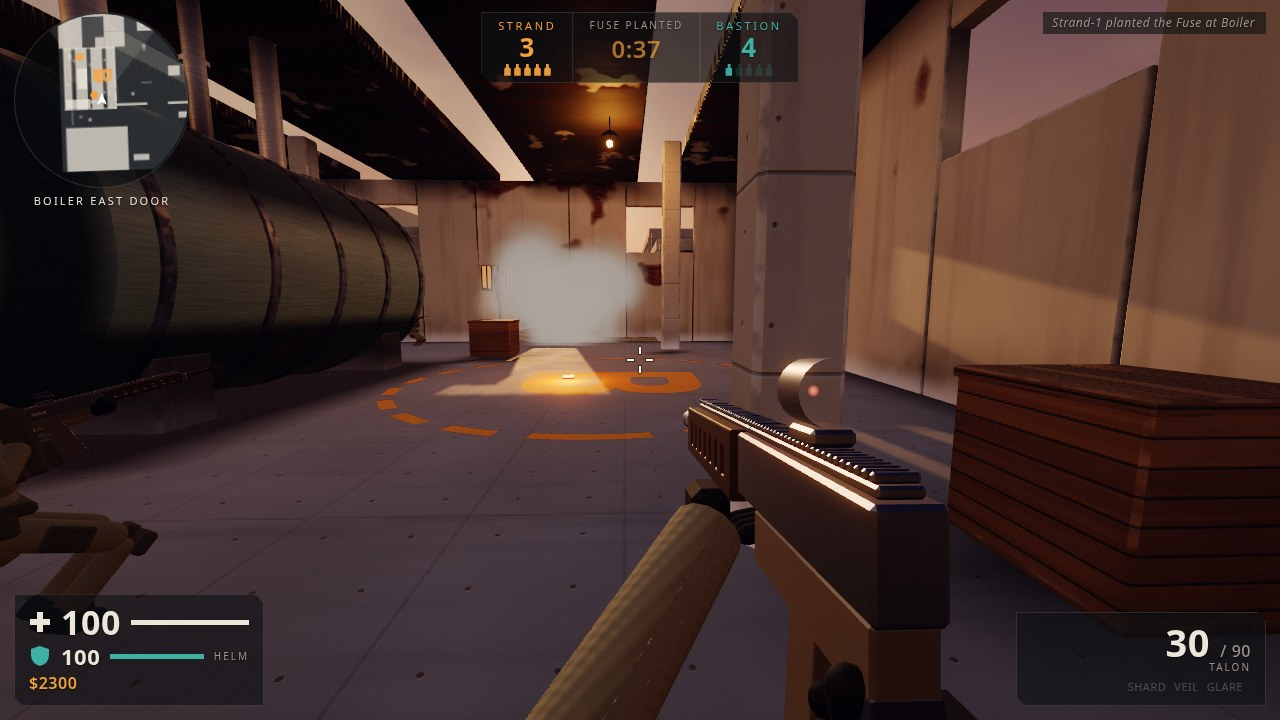
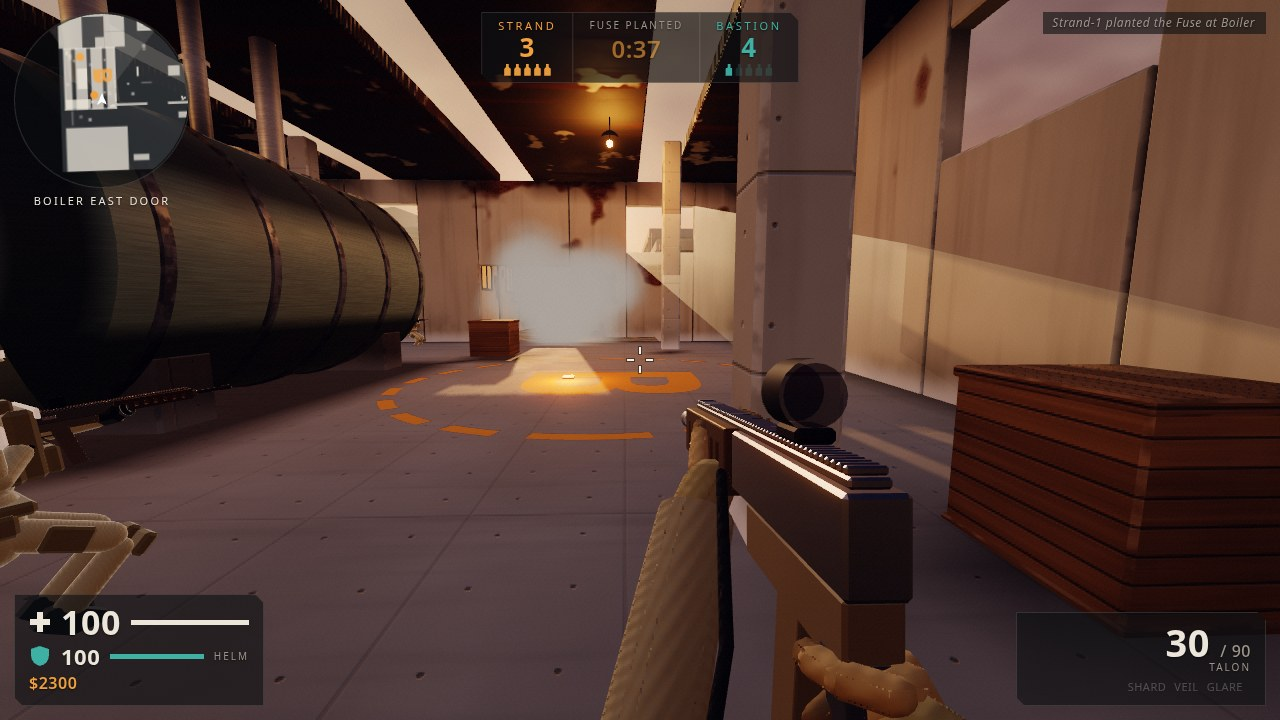
Visual polish: readable soldiers (rim, team accents, hit flash, spotted marker), black optics with tinted glass, C-grip fingers and sling, sun shafts, barrels and sandbag cover, damage vignette

diff --git a/game/index.html b/game/index.html
@@ -12,13 +12,13 @@ art (all procedural): post.js, lighting.js, materials.js, geo.js, weapons-art.js
 <meta charset="utf-8">
 <meta name="viewport" content="width=device-width, initial-scale=1">
 <title>SALTLINE — Brinehold</title>
-<style>:root{--ink:#ece6da;--mute:#9b948a;--amber:#f0a03c;--teal:#3fb0a4;--red:#ff5a4a;--bg:rgba(14,16,20,.62);--line:rgba(236,230,218,.14)}[hidden]{display:none!important}*{box-sizing:border-box}html,body{margin:0;height:100%;overflow:hidden;background:#000;color:var(--ink);font:13px/1.35 "Bahnschrift","DIN Alternate","Segoe UI",system-ui,sans-serif;letter-spacing:.04em}#game canvas{position:fixed;inset:0;display:block}#hud{position:fixed;inset:0;pointer-events:none;font-variant-numeric:tabular-nums;text-shadow:0 1px 2px rgba(0,0,0,.6)}.pn{position:absolute;background:var(--bg);border:1px solid var(--line);clip-path:polygon(0 0,calc(100% - 9px) 0,100% 9px,100% 100%,9px 100%,0 calc(100% - 9px))}.lbl{font-size:10px;letter-spacing:.2em;color:var(--mute)}#top{left:50%;top:12px;transform:translateX(-50%);display:flex;align-items:stretch;padding:0}#top>div{padding:6px 16px;text-align:center}#top .tm{min-width:120px;border-left:1px solid var(--line);border-right:1px solid var(--line)}#top .sc{font-size:26px;font-weight:700;line-height:1}#top .nm{font-size:11px;letter-spacing:.24em}#top .s{color:var(--amber)}#top .b{color:var(--teal)}#timer{font-size:24px;font-weight:600}#timer.hot{color:var(--amber);animation:pulse .5s infinite alternate}.pips{display:flex;gap:3px;justify-content:center;margin-top:4px}.pips i{width:7px;height:12px;background:currentColor;opacity:.95;clip-path:polygon(30% 0,70% 0,70% 30%,100% 40%,100% 100%,0 100%,0 40%,30% 30%)}.pips i.d{opacity:.18}#radar{left:14px;top:12px;width:176px;height:176px;border-radius:50%;border:1px solid var(--line);background:rgba(10,12,14,.55)}#loc{position:absolute;left:14px;top:194px;width:176px;text-align:center;font-size:11px;letter-spacing:.2em;color:var(--ink)}#feed{position:absolute;right:14px;top:12px;width:380px;display:flex;flex-direction:column;align-items:flex-end;gap:3px}#feed div{background:var(--bg);padding:3px 9px;font-size:12px;border-right:2px solid var(--line)}#feed .r{color:var(--mute);font-style:italic;border-color:transparent}#feed .k{border-color:var(--amber)}#feed em{font-style:normal;color:var(--mute);margin:0 6px}#feed b.hs{color:var(--amber);margin-left:5px}#vit{left:14px;bottom:14px;width:250px;padding:10px 14px}.row{display:flex;align-items:center;gap:10px}.big{font-size:34px;font-weight:700;line-height:1}.bar{flex:1;height:5px;background:rgba(255,255,255,.12)}.bar i{display:block;height:100%;width:100%;background:var(--ink);transition:width .15s}#hpbar.low i{background:var(--red)}#arm i{background:var(--teal)}#money{color:var(--amber);font-size:16px;font-weight:600;margin-top:6px}#wpn{right:14px;bottom:14px;width:250px;padding:10px 14px;text-align:right}#ammo{font-size:38px;font-weight:700;line-height:1}#ammo small{font-size:16px;color:var(--mute);font-weight:500}#ammo.low{color:var(--red)}#nades{display:flex;gap:8px;justify-content:flex-end;margin-top:6px;font-size:11px}#nades span{opacity:.25}#nades span.on{opacity:1}#nades span.sel{color:var(--amber)}#cross{position:absolute;left:50%;top:50%;--g:6px}#cross i{position:absolute;background:#f4f0e6;box-shadow:0 0 0 1px rgba(0,0,0,.45)}#cross i:nth-child(1){left:calc(-1px - var(--g) - 7px);top:-1px;width:7px;height:2px}#cross i:nth-child(2){left:calc(1px + var(--g));top:-1px;width:7px;height:2px}#cross i:nth-child(3){top:calc(-1px - var(--g) - 7px);left:-1px;height:7px;width:2px}#cross i:nth-child(4){top:calc(1px + var(--g));left:-1px;height:7px;width:2px}#hit{position:absolute;left:50%;top:50%;width:26px;height:26px;margin:-13px;opacity:0;transition:opacity .2s}#hit.on{opacity:1;transition:none}#hit i{position:absolute;left:12px;width:2px;height:8px;background:#fff}#hit.hs i{background:var(--red)}#hurt{position:absolute;left:50%;top:50%;width:300px;height:300px;margin:-150px;border-radius:50%;opacity:0;background:conic-gradient(from -20deg,rgba(255,60,40,.5) 0 40deg,transparent 40deg)}#banner{position:absolute;left:0;right:0;top:24%;text-align:center}#banner h1{margin:0;font-size:40px;letter-spacing:.32em;font-weight:700;color:var(--ink)}#banner h2{margin:6px 0 0;font-size:13px;letter-spacing:.3em;font-weight:500;color:var(--amber)}#banner:before{content:"";display:block;margin:0 auto 12px;width:220px;height:2px;background:linear-gradient(90deg,transparent,var(--amber),transparent)}#prog{left:50%;top:62%;width:280px;transform:translateX(-50%);padding:8px 12px;text-align:center}#prog .bar i{background:var(--amber)}#prompt{position:absolute;left:50%;top:57%;transform:translateX(-50%);font-size:12px;letter-spacing:.24em}#spec{position:absolute;left:50%;bottom:96px;transform:translateX(-50%);color:var(--teal);letter-spacing:.24em;font-size:12px}#scope{position:absolute;inset:0;background:radial-gradient(circle,transparent 0 31vh,#000 31.3vh)}#scope:before,#scope:after{content:"";position:absolute;background:rgba(0,0,0,.85)}#scope:before{left:50%;top:19vh;bottom:19vh;width:1px}#scope:after{top:50%;left:calc(50% - 31vh);right:calc(50% - 31vh);height:1px}#flash{position:absolute;inset:0;background:#fffaf0;opacity:0}#buy{left:50%;top:50%;transform:translate(-50%,-50%);width:860px;padding:18px 22px;pointer-events:auto}#buy header{display:flex;justify-content:space-between;align-items:baseline;border-bottom:1px solid var(--line);padding-bottom:8px;margin-bottom:12px}#buy h3{margin:0;font-size:18px;letter-spacing:.3em}#buy .cr{color:var(--amber);font-size:20px;font-weight:700}#buy .cols{display:grid;grid-template-columns:repeat(4,1fr);gap:12px}#buy .col>p{margin:0 0 6px}.it{display:grid;grid-template-columns:18px 1fr auto;gap:2px 8px;padding:7px 9px;margin-bottom:6px;background:rgba(255,255,255,.04);border-left:2px solid transparent;cursor:pointer}.it:hover{background:rgba(240,160,60,.12);border-color:var(--amber)}.it kbd{font:inherit;color:var(--amber)}.it b{font-weight:600}.it s{text-decoration:none;color:var(--amber)}.it small{grid-column:2/4;color:var(--mute);font-size:10px}.it.off{opacity:.35;cursor:default}.it.own{border-color:var(--teal)}.it.own s{color:var(--teal)}#board{left:50%;top:64%;transform:translate(-50%,-50%);width:640px;padding:16px 20px}#board table{width:100%;border-collapse:collapse}#board td,#board th{padding:4px 6px;text-align:right}#board td:first-child,#board th:first-child{text-align:left}#board th{color:var(--mute);font-size:10px;letter-spacing:.2em;font-weight:500}#board tr.t td{padding-top:10px;font-size:12px;letter-spacing:.24em}#board .dead{opacity:.4}#board .me{color:var(--amber)}.ov{position:fixed;inset:0;display:flex;flex-direction:column;align-items:center;justify-content:center;gap:16px;z-index:5;background:linear-gradient(180deg,rgba(10,10,14,.15),rgba(10,10,14,.75) 70%)}.logo{font-size:84px;font-weight:800;letter-spacing:.34em;margin-right:-.34em;line-height:1;background:linear-gradient(180deg,#fff7ea,#e6c49a);-webkit-background-clip:text;color:transparent;filter:drop-shadow(0 4px 18px rgba(0,0,0,.5))}.tag{letter-spacing:.42em;color:var(--amber);font-size:13px}.ov .row{gap:8px}.ov label{padding:8px 14px;border:1px solid var(--line);cursor:pointer;background:var(--bg);font-size:12px;letter-spacing:.2em}.ov label:has(input:checked){border-color:var(--amber);color:var(--amber)}.ov input[type=radio]{display:none}.ov button{font:inherit;font-size:15px;letter-spacing:.3em;font-weight:700;padding:14px 46px;border:0;cursor:pointer;color:#16120c;background:var(--amber);clip-path:polygon(0 0,calc(100% - 12px) 0,100% 12px,100% 100%,12px 100%,0 calc(100% - 12px))}.ov button.g{background:transparent;color:var(--ink);border:1px solid var(--line)}.keys{max-width:720px;text-align:center;color:var(--mute);font-size:11px;line-height:2;letter-spacing:.16em}.keys b{color:var(--ink);font-weight:600}.set{display:grid;grid-template-columns:auto 220px;gap:10px 18px;align-items:center;font-size:12px;letter-spacing:.2em}.set input,.set select{accent-color:var(--amber)}@keyframes pulse{to{opacity:.55}}</style>
+<style>:root{--ink:#ece6da;--mute:#9b948a;--amber:#f0a03c;--teal:#3fb0a4;--red:#ff5a4a;--bg:rgba(14,16,20,.62);--line:rgba(236,230,218,.14)}[hidden]{display:none!important}*{box-sizing:border-box}html,body{margin:0;height:100%;overflow:hidden;background:#000;color:var(--ink);font:13px/1.35 "Bahnschrift","DIN Alternate","Segoe UI",system-ui,sans-serif;letter-spacing:.04em}#game canvas{position:fixed;inset:0;display:block}#hud{position:fixed;inset:0;pointer-events:none;font-variant-numeric:tabular-nums;text-shadow:0 1px 2px rgba(0,0,0,.6)}.pn{position:absolute;background:var(--bg);border:1px solid var(--line);clip-path:polygon(0 0,calc(100% - 9px) 0,100% 9px,100% 100%,9px 100%,0 calc(100% - 9px))}.lbl{font-size:10px;letter-spacing:.2em;color:var(--mute)}#top{left:50%;top:12px;transform:translateX(-50%);display:flex;align-items:stretch;padding:0}#top>div{padding:6px 16px;text-align:center}#top .tm{min-width:120px;border-left:1px solid var(--line);border-right:1px solid var(--line)}#top .sc{font-size:26px;font-weight:700;line-height:1}#top .nm{font-size:11px;letter-spacing:.24em}#top .s{color:var(--amber)}#top .b{color:var(--teal)}#timer{font-size:24px;font-weight:600}#timer.hot{color:var(--amber);animation:pulse .5s infinite alternate}.pips{display:flex;gap:3px;justify-content:center;margin-top:4px}.pips i{width:7px;height:12px;background:currentColor;opacity:.95;clip-path:polygon(30% 0,70% 0,70% 30%,100% 40%,100% 100%,0 100%,0 40%,30% 30%)}.pips i.d{opacity:.18}#radar{left:14px;top:12px;width:176px;height:176px;border-radius:50%;border:1px solid var(--line);background:rgba(10,12,14,.55)}#loc{position:absolute;left:14px;top:194px;width:176px;text-align:center;font-size:11px;letter-spacing:.2em;color:var(--ink)}#feed{position:absolute;right:14px;top:12px;width:380px;display:flex;flex-direction:column;align-items:flex-end;gap:3px}#feed div{background:var(--bg);padding:3px 9px;font-size:12px;border-right:2px solid var(--line)}#feed .r{color:var(--mute);font-style:italic;border-color:transparent}#feed .k{border-color:var(--amber)}#feed em{font-style:normal;color:var(--mute);margin:0 6px}#feed b.hs{color:var(--amber);margin-left:5px}#vit{left:14px;bottom:14px;width:250px;padding:10px 14px}.row{display:flex;align-items:center;gap:10px}.big{font-size:34px;font-weight:700;line-height:1}.bar{flex:1;height:5px;background:rgba(255,255,255,.12)}.bar i{display:block;height:100%;width:100%;background:var(--ink);transition:width .15s}#hpbar.low i{background:var(--red)}#arm i{background:var(--teal)}#money{color:var(--amber);font-size:16px;font-weight:600;margin-top:6px}#wpn{right:14px;bottom:14px;width:250px;padding:10px 14px;text-align:right}#ammo{font-size:38px;font-weight:700;line-height:1}#ammo small{font-size:16px;color:var(--mute);font-weight:500}#ammo.low{color:var(--red)}#nades{display:flex;gap:8px;justify-content:flex-end;margin-top:6px;font-size:11px}#nades span{opacity:.25}#nades span.on{opacity:1}#nades span.sel{color:var(--amber)}#cross{position:absolute;left:50%;top:50%;--g:6px}#cross i{position:absolute;background:#f4f0e6;box-shadow:0 0 0 1px rgba(0,0,0,.45)}#cross i:nth-child(1){left:calc(-1px - var(--g) - 7px);top:-1px;width:7px;height:2px}#cross i:nth-child(2){left:calc(1px + var(--g));top:-1px;width:7px;height:2px}#cross i:nth-child(3){top:calc(-1px - var(--g) - 7px);left:-1px;height:7px;width:2px}#cross i:nth-child(4){top:calc(1px + var(--g));left:-1px;height:7px;width:2px}#hit{position:absolute;left:50%;top:50%;width:26px;height:26px;margin:-13px;opacity:0;transition:opacity .2s}#hit.on{opacity:1;transition:none}#hit i{position:absolute;left:12px;width:2px;height:8px;background:#fff}#hit.hs i{background:var(--red)}#hurt{position:absolute;left:50%;top:50%;width:300px;height:300px;margin:-150px;border-radius:50%;opacity:0;background:conic-gradient(from -20deg,rgba(255,60,40,.5) 0 40deg,transparent 40deg)}#banner{position:absolute;left:0;right:0;top:24%;text-align:center}#banner h1{margin:0;font-size:40px;letter-spacing:.32em;font-weight:700;color:var(--ink)}#banner h2{margin:6px 0 0;font-size:13px;letter-spacing:.3em;font-weight:500;color:var(--amber)}#banner:before{content:"";display:block;margin:0 auto 12px;width:220px;height:2px;background:linear-gradient(90deg,transparent,var(--amber),transparent)}#prog{left:50%;top:62%;width:280px;transform:translateX(-50%);padding:8px 12px;text-align:center}#prog .bar i{background:var(--amber)}#prompt{position:absolute;left:50%;top:57%;transform:translateX(-50%);font-size:12px;letter-spacing:.24em}#spec{position:absolute;left:50%;bottom:96px;transform:translateX(-50%);color:var(--teal);letter-spacing:.24em;font-size:12px}#scope{position:absolute;inset:0;background:radial-gradient(circle,#ff3b2f 0 .32vh,transparent .45vh 31vh,#000 31.3vh)}#scope:before,#scope:after{content:"";position:absolute;background:rgba(0,0,0,.85)}#scope:before{left:50%;top:19vh;bottom:19vh;width:1px}#scope:after{top:50%;left:calc(50% - 31vh);right:calc(50% - 31vh);height:1px}#vig{position:absolute;inset:0;opacity:0;background:radial-gradient(ellipse,transparent 55%,rgba(200,20,10,.65))}#vig.low{animation:pulse .6s infinite alternate}#flash{position:absolute;inset:0;background:#fffaf0;opacity:0}#buy{left:50%;top:50%;transform:translate(-50%,-50%);width:860px;padding:18px 22px;pointer-events:auto}#buy header{display:flex;justify-content:space-between;align-items:baseline;border-bottom:1px solid var(--line);padding-bottom:8px;margin-bottom:12px}#buy h3{margin:0;font-size:18px;letter-spacing:.3em}#buy .cr{color:var(--amber);font-size:20px;font-weight:700}#buy .cols{display:grid;grid-template-columns:repeat(4,1fr);gap:12px}#buy .col>p{margin:0 0 6px}.it{display:grid;grid-template-columns:18px 1fr auto;gap:2px 8px;padding:7px 9px;margin-bottom:6px;background:rgba(255,255,255,.04);border-left:2px solid transparent;cursor:pointer}.it:hover{background:rgba(240,160,60,.12);border-color:var(--amber)}.it kbd{font:inherit;color:var(--amber)}.it b{font-weight:600}.it s{text-decoration:none;color:var(--amber)}.it small{grid-column:2/4;color:var(--mute);font-size:10px}.it.off{opacity:.35;cursor:default}.it.own{border-color:var(--teal)}.it.own s{color:var(--teal)}#board{left:50%;top:64%;transform:translate(-50%,-50%);width:640px;padding:16px 20px}#board table{width:100%;border-collapse:collapse}#board td,#board th{padding:4px 6px;text-align:right}#board td:first-child,#board th:first-child{text-align:left}#board th{color:var(--mute);font-size:10px;letter-spacing:.2em;font-weight:500}#board tr.t td{padding-top:10px;font-size:12px;letter-spacing:.24em}#board .dead{opacity:.4}#board .me{color:var(--amber)}.ov{position:fixed;inset:0;display:flex;flex-direction:column;align-items:center;justify-content:center;gap:16px;z-index:5;background:linear-gradient(180deg,rgba(10,10,14,.15),rgba(10,10,14,.75) 70%)}.logo{font-size:84px;font-weight:800;letter-spacing:.34em;margin-right:-.34em;line-height:1;background:linear-gradient(180deg,#fff7ea,#e6c49a);-webkit-background-clip:text;color:transparent;filter:drop-shadow(0 4px 18px rgba(0,0,0,.5))}.tag{letter-spacing:.42em;color:var(--amber);font-size:13px}.ov .row{gap:8px}.ov label{padding:8px 14px;border:1px solid var(--line);cursor:pointer;background:var(--bg);font-size:12px;letter-spacing:.2em}.ov label:has(input:checked){border-color:var(--amber);color:var(--amber)}.ov input[type=radio]{display:none}.ov button{font:inherit;font-size:15px;letter-spacing:.3em;font-weight:700;padding:14px 46px;border:0;cursor:pointer;color:#16120c;background:var(--amber);clip-path:polygon(0 0,calc(100% - 12px) 0,100% 12px,100% 100%,12px 100%,0 calc(100% - 12px))}.ov button.g{background:transparent;color:var(--ink);border:1px solid var(--line)}.keys{max-width:720px;text-align:center;color:var(--mute);font-size:11px;line-height:2;letter-spacing:.16em}.keys b{color:var(--ink);font-weight:600}.set{display:grid;grid-template-columns:auto 220px;gap:10px 18px;align-items:center;font-size:12px;letter-spacing:.2em}.set input,.set select{accent-color:var(--amber)}@keyframes pulse{to{opacity:.55}}</style>
 <script type="importmap">{ "imports": { "three": "./three.module.min.js" } }</script>
 </head>
 <body>
 <div id="game"></div>
 <div id="hud">
-<div id="flash"></div><div id="scope" hidden></div><div id="hurt"></div>
+<div id="vig"></div><div id="flash"></div><div id="scope" hidden></div><div id="hurt"></div>
 <canvas id="radar" width="176" height="176" style="position:absolute"></canvas><div id="loc"></div>
 <div class="pn" id="top">
 <div><div class="nm s">STRAND</div><div class="sc s" id="scS">0</div><div class="pips s" id="pipS"></div></div>

diff --git a/game/js/art/characters.js b/game/js/art/characters.js
@@ -2,9 +2,10 @@
 // (one draw) per soldier. Team identity by silhouette and colour; walk/crouch/aim/death are procedural and both
 // hands reach the held weapon through analytic two-bone IK.
 import { Bone, Skeleton, SkinnedMesh, Group, Mesh, MeshStandardMaterial, Float32BufferAttribute, Uint16BufferAttribute, CapsuleGeometry,
-	SphereGeometry, CylinderGeometry, Matrix4, Vector3, Quaternion, Euler, Color } from 'three';
+	SphereGeometry, CylinderGeometry, TorusGeometry, Matrix4, Vector3, Quaternion, Euler, Color, Sprite, SpriteMaterial, CanvasTexture } from 'three';
 import { Bld, boxInto } from './mesh.js';
-import { buildWeapon, weaponMaterial } from './weapons-art.js';
+import { buildWeapon } from './weapons-art.js';
+import { procMaterial } from './materials.js';
 import { TEAM_LOOK } from '../config.js';
 
 // Bone table: [parent, x, y, z] in bind pose (relative to parent). Arms hang down; forward is -z.
@@ -18,7 +19,7 @@ const _S = new Vector3(), _T = new Vector3(), _E = new Vector3(), _D = new Vecto
 
 function buildBody(team) {
 	const L = TEAM_LOOK[team], B = new Bld(), skin = [];
-	const cloth = lin(L.cloth), gear = lin(L.gear), acc = lin(L.accent), helm = lin(L.helmet), dark = lin(0x1c1c1e), face = lin(0x2b2825);
+	const cloth = lin(L.cloth), gear = lin(L.gear), acc = lin(L.accent), helm = lin(L.helmet), dark = lin(0x1c1c1e), face = lin(0x2b2825), glove = lin(0x2a241c);
 	const part = (bone, fn) => { const n0 = B.p.length / 3; fn(); for (let k = n0; k < B.p.length / 3; k++) skin.push(bone); };
 	const bx = (mn, mx, col, e = 1, r = 0.02) => boxInto(B, mn, mx, r, col, 0.4, e, e);
 	const geo = (g, x, y, z, col, e = 0, sx = 1, sy = 1, sz = 1, rx = 0) => B.add(g, _m.compose(_v.set(x, y, z), _q.setFromEuler(_e.set(rx, 0, 0)), _s.set(sx, sy, sz)), e, col);
@@ -31,23 +32,25 @@ function buildBody(team) {
 		geo(new CapsuleGeometry(0.16, 0.22, 4, 16), 0, 1.3, 0, cloth, 0, 1.15, 1, 0.72);
 		bx([-0.16, 1.12, -0.17], [0.16, 1.45, -0.08], gear); bx([-0.16, 1.12, 0.07], [0.16, 1.45, 0.15], gear);
 		bx([-0.19, 1.12, -0.1], [0.19, 1.27, 0.09], gear);
+		bx([-0.165, 1.4, -0.18], [0.165, 1.45, -0.165], acc, 3, 0.008); bx([-0.165, 1.4, 0.15], [0.165, 1.45, 0.16], acc, 3, 0.008);
 		for (const x of [-0.11, 0, 0.11]) bx([x - 0.04, 1.13, -0.215], [x + 0.04, 1.26, -0.165], gear, 1, 0.012);
 		for (const x of [-0.1, 0.1]) bx([x - 0.035, 1.44, -0.12], [x + 0.035, 1.5, 0.12], gear, 1, 0.01);
-		if (team === 'strand') bx([-0.15, 1.1, 0.15], [0.15, 1.44, 0.3], gear); else bx([-0.13, 1.3, 0.15], [0.13, 1.42, 0.2], dark);
+		if (team === 'strand') { bx([-0.15, 1.1, 0.15], [0.15, 1.44, 0.3], gear); bx([-0.15, 1.3, 0.3], [0.15, 1.36, 0.31], acc, 3, 0.005); } else bx([-0.13, 1.3, 0.15], [0.13, 1.42, 0.2], dark);
 		geo(new CylinderGeometry(0.06, 0.07, 0.1, 12), 0, 1.53, 0, face);
 	});
 	part(HEAD, () => {
 		geo(new SphereGeometry(0.105, 18, 14), 0, 1.66, -0.01, face, 0, 0.95, 1.08, 1.05);
 		geo(new SphereGeometry(0.135, 22, 10, 0, 6.3, 0, team === 'strand' ? 1.45 : 1.75), 0, 1.65, 0.0, helm, 1, 1, 1.05, 1.12);
-		geo(new CylinderGeometry(0.03, 0.03, 0.035, 12), -0.12, 1.65, 0.01, dark, 1, 1, 1, 1, 0);
+		geo(new CylinderGeometry(0.139, 0.139, 0.035, 22, 1, true), 0, 1.7, 0, acc, 3, 1, 1, 1.12);
+		geo(new CylinderGeometry(0.03, 0.03, 0.035, 12), -0.12, 1.65, 0.01, dark, 1);
 		geo(new CylinderGeometry(0.03, 0.03, 0.035, 12), 0.12, 1.65, 0.01, dark, 1);
 		bx([-0.025, 1.76, -0.15], [0.025, 1.8, -0.11], dark, 2, 0.008);
 		if (team === 'strand') { bx([-0.085, 1.66, -0.125], [0.085, 1.7, -0.09], dark, 2, 0.012); bx([-0.125, 1.67, -0.1], [0.125, 1.69, 0.1], acc, 1, 0.005); }
 		else geo(new CylinderGeometry(0.128, 0.128, 0.075, 20, 1, true, Math.PI * 0.62, Math.PI * 0.76), 0, 1.655, -0.005, dark, 2);
 	});
 	for (const [ua, fa, s] of [[LUA, LFA, -1], [RUA, RFA, 1]]) {
-		part(ua, () => { geo(new CapsuleGeometry(0.052, 0.19, 4, 12), s * 0.2, 1.31, 0, cloth); bx([s * 0.2 - 0.056, 1.33, -0.035], [s * 0.2 + 0.056, 1.39, 0.035], acc, 1, 0.01); });
-		part(fa, () => { geo(new CapsuleGeometry(0.046, 0.17, 4, 12), s * 0.2, 1.03, 0, cloth); bx([s * 0.2 - 0.04, 0.84, -0.045], [s * 0.2 + 0.04, 0.94, 0.04], lin(0x3b3428), 1, 0.02); });
+		part(ua, () => { geo(new CapsuleGeometry(0.052, 0.19, 4, 12), s * 0.2, 1.31, 0, cloth); bx([s * 0.2 - 0.062, 1.3, -0.062], [s * 0.2 + 0.062, 1.4, 0.062], acc, 3, 0.012); });
+		part(fa, () => { geo(new CapsuleGeometry(0.046, 0.17, 4, 12), s * 0.2, 1.03, 0, cloth); bx([s * 0.2 - 0.04, 0.84, -0.045], [s * 0.2 + 0.04, 0.94, 0.04], glove, 1, 0.02); geo(new TorusGeometry(0.03, 0.012, 6, 10, 3.6), s * 0.2, 0.82, -0.02, glove, 1, 1, 1, 1, Math.PI / 2); });
 	}
 	for (const [th, sh, s] of [[LTH, LSH, -1], [RTH, RSH, 1]]) {
 		part(th, () => { geo(new CapsuleGeometry(0.075, 0.28, 4, 14), s * 0.1, 0.69, 0, cloth); if (s > 0) bx([0.14, 0.62, -0.06], [0.19, 0.78, 0.06], gear); });
@@ -77,18 +80,22 @@ function reach(ua, fa, S, T, side) {
 export function createCharacters(scene) {
 	const geos = { strand: buildBody('strand'), bastion: buildBody('bastion') };
 	const fuseMat = new MeshStandardMaterial({ color: 0x000000, emissive: 0xf0a03c, emissiveIntensity: 6 });
+	const mc = document.createElement('canvas'); mc.width = mc.height = 32; const x = mc.getContext('2d');
+	x.fillStyle = '#ff5a4a'; x.strokeStyle = '#1a0a08'; x.lineWidth = 3; x.beginPath(); x.moveTo(16, 3); x.lineTo(28, 16); x.lineTo(16, 29); x.lineTo(4, 16); x.closePath(); x.fill(); x.stroke();
+	const markMat = new SpriteMaterial({ map: new CanvasTexture(mc), depthTest: false, transparent: true, sizeAttenuation: false });
 	const rigs = new Map(), weapons = {};
 	function rigFor(a) {
 		const bones = BONES.map(([, x, y, z]) => { const b = new Bone(); b.position.set(x, y, z); return b; });
 		BONES.forEach(([p], k) => { if (p >= 0) bones[p].add(bones[k]); });
-		const mesh = new SkinnedMesh(geos[a.team], weaponMaterial);
+		const mat = procMaterial({ c: 0xffffff, pat: 12, bump: 0.004, dirt: 0.35, rime: 0.45 }), mesh = new SkinnedMesh(geos[a.team], mat);
 		mesh.add(bones[ROOT]); mesh.updateMatrixWorld(true); mesh.bind(new Skeleton(bones));
 		mesh.castShadow = true; mesh.receiveShadow = true; mesh.frustumCulled = false;
 		const fuse = new Mesh(new CylinderGeometry(0.05, 0.05, 0.22, 10), fuseMat);
 		fuse.position.set(0, 0.0, 0.31); fuse.rotation.z = Math.PI / 2; bones[CHEST].add(fuse);
-		const hold = new Group(); bones[CHEST].add(hold);
+		const hold = new Group(), mark = new Sprite(markMat); bones[CHEST].add(hold);
+		mark.scale.setScalar(0.022); mesh.add(mark);
 		scene.add(mesh);
-		const r = { mesh, bones, fuse, hold, team: a.team, wid: '', gun: null, fall: 0, flinch: 0, side: a.id % 2 ? 1 : -1 };
+		const r = { mesh, mat, mark, bones, fuse, hold, team: a.team, wid: '', gun: null, fall: 0, flinch: 0, side: a.id % 2 ? 1 : -1 };
 		rigs.set(a.id, r);
 		return r;
 	}
@@ -113,7 +120,9 @@ export function createCharacters(scene) {
 				r.mesh.position.copy(a.pos); r.mesh.rotation.y = a.yaw;
 				r.fuse.visible = a.hasFuse;
 				r.fall = a.alive ? 0 : Math.min(1, r.fall + dt * 2.6);
-				r.flinch = Math.max(0, r.flinch - dt * 6);
+				r.flinch = Math.max(0, r.flinch - dt * 10); r.mat.userData.u.uL.value.w = state.scenarioDone ? 0 : r.flinch;
+		// Diamond over enemies the team has spotted (the same rule as the radar), so they read at range.
+		r.mark.visible = a.alive && a.team !== state.player.team && state.time - state.spottedT[a.id] < 2.5; r.mark.position.y = 2.05 - a.crouch * 0.4;
 				const f = r.fall * r.fall, sp = a.speed, amp = Math.min(1, sp / 5.5) * 0.62, ph = a.walkPhase, c = a.crouch * (1 - r.fall);
 				b[PELVIS].position.y = 0.95 - c * 0.3 - f * 0.72 + Math.abs(Math.sin(ph)) * amp * 0.035;
 				b[ROOT].rotation.set(-f * 1.45, 0, f * 0.25 * r.side);

diff --git a/game/js/art/viewmodel.js b/game/js/art/viewmodel.js
@@ -1,34 +1,55 @@
 // SALTLINE art/viewmodel.js — first-person weapon, gloved hands and sleeves (ART.md §9). Springs drive sway, bob,
 // kick, slide cycling, reload and draw; a key light follows the real sun and dims when the eye is in shade.
 import { Group, Mesh, ShaderMaterial, PlaneGeometry, AdditiveBlending, DoubleSide, DirectionalLight, HemisphereLight, Vector3, CapsuleGeometry,
-	CylinderGeometry, Matrix4, Quaternion, Color, Euler } from 'three';
+	CylinderGeometry, Matrix4, Quaternion, Color } from 'three';
 import { buildWeapon, weaponMaterial } from './weapons-art.js';
-import { Bld, boxInto } from './mesh.js';
+import { Bld } from './mesh.js';
 import { damp, losBlocked } from '../math.js';
 import { TEAM_LOOK, WEAPONS } from '../config.js';
 
-const HOLD = { pistol: [0.075, -0.105, -0.43], knife: [0.12, -0.13, -0.3], rifle: [0.11, -0.125, -0.33] }, ADS = [0, -0.074, -0.22];
+const HOLD = { pistol: [0.075, -0.105, -0.43], knife: [0.12, -0.13, -0.3], rifle: [0.11, -0.128, -0.37] }, ADS = [0, -0.074, -0.22];
 const lin = (h) => { const c = new Color(h); return [c.r, c.g, c.b]; };
-const _m = new Matrix4(), _q = new Quaternion(), _e = new Euler(), _v = new Vector3(), _c = new Vector3(), _a = new Vector3(), _b = new Vector3(), _s = new Vector3(1, 1, 1), _up = new Vector3(0, 1, 0);
+const _m = new Matrix4(), _q = new Quaternion(), _v = new Vector3(), _c = new Vector3(), _a = new Vector3(), _b = new Vector3(), _s = new Vector3(1, 1, 1), _up = new Vector3(0, 1, 0);
 function limb(B, a, b, r0, r1, col, e) {
 	_v.subVectors(b, a); const len = _v.length();
 	_q.setFromUnitVectors(_up, _v.normalize());
 	B.add(new CylinderGeometry(r1, r0, len, 14, 3), _m.compose(_c.addVectors(a, b).multiplyScalar(0.5), _q, _s.set(1, 1, 1)), e, col);
 }
-const capsule = (B, x, y, z, rx, ry, rz, r, l, col) => B.add(new CapsuleGeometry(r, l, 3, 10), _m.compose(_v.set(x, y, z), _q.setFromEuler(_e.set(rx, ry, rz)), _s.set(1, 1, 1)), 1, col);
-// Right hand wraps the grip; the left hand cups the handguard (long guns) or the right hand (pistols).
-function buildArms(team, left, pistol) {
-	const R = new Bld(), L = new Bld(), glove = lin(0x3b3428), knuckle = lin(0x2a251e), sleeve = lin(TEAM_LOOK[team].cloth), cuff = lin(TEAM_LOOK[team].gear);
-	boxInto(R, [0.012, -0.1, -0.005], [0.04, -0.03, 0.06], 0.012, glove, 0.05, 1, 1);
-	for (let k = 0; k < 4; k++) capsule(R, -0.004, -0.04 - k * 0.019, -0.012, 0, 0, Math.PI / 2, 0.0095, 0.03, k ? glove : knuckle);
-	capsule(R, -0.016, -0.032, 0.012, 0.6, 0, 0.3, 0.01, 0.035, glove);
-	limb(R, _a.set(0.03, -0.075, 0.07), _b.set(0.1, -0.2, 0.42), 0.034, 0.04, sleeve, 0);
-	limb(R, _a.set(0.028, -0.072, 0.055), _b.set(0.034, -0.08, 0.1), 0.036, 0.037, cuff, 0);
-	if (left) {
-		const [x, y, z] = pistol ? [-0.03, -0.075, 0.015] : left;
-		boxInto(L, [x - 0.048, y - 0.055, z - 0.035], [x - 0.012, y + 0.01, z + 0.035], 0.012, glove, 0.05, 1, 1);
-		for (let k = 0; k < 4; k++) capsule(L, x + 0.012, y - 0.03, z - 0.028 + k * 0.019, Math.PI / 2, 0, 0.9, 0.0095, 0.028, glove);
-		limb(L, _a.set(x - 0.035, y - 0.03, z + 0.03), _b.set(x - 0.26, y - 0.24, z + 0.36), 0.034, 0.044, sleeve, 0);
+// Capsule bone between two points; a finger is three of them following an elliptical arc around the part it grips.
+function seg(B, a, b, r, col) {
+	_v.subVectors(b, a); const len = _v.length(); _q.setFromUnitVectors(_up, _v.normalize());
+	B.add(new CapsuleGeometry(r, len, 2, 8), _m.compose(_c.addVectors(a, b).multiplyScalar(0.5), _q, _s.set(1, 1, 1)), 0, col);
+}
+const P = (x, y, z) => new Vector3(x, y, z);
+function finger(B, pts, r, col, tip) { for (let k = 0; k < 3; k++) seg(B, pts[k], pts[k + 1], r * (1 - k * 0.08), k === 2 ? tip : col); }
+// C-shaped fingers: around the pistol grip in the horizontal plane (x/z), around the handguard in the cross-section (x/y).
+const gripArc = (y, deg) => { const t = (-0.02 - y) / 0.1, zc = 0.0175 + 0.0235 * t; return deg.map((d) => P(0.024 * Math.cos(d / 57.3), y, zc + 0.028 * Math.sin(d / 57.3))); };
+const hgArc = (z, [cy, rx, ry], deg) => deg.map((d) => P((rx + 0.009) * Math.cos(d / 57.3), cy + (ry + 0.009) * Math.sin(d / 57.3), z));
+// Right hand: palm behind the grip, three fingers wrapped round it, index finger on the trigger, thumb over the left side.
+// Left hand: palm under the handguard, four fingers up its right side, thumb along the left (long guns), or cupping
+// the right hand (pistols). Gloves are light coyote against the dark gun; sleeves are muted team cloth.
+function buildArms(team, w, knife) {
+	const R = new Bld(), L = new Bld(), glove = lin(0xa48a62), tip = lin(0x7c6646), sleeve = lin(new Color(TEAM_LOOK[team].cloth).lerp(new Color(0x3c3d3e), 0.5).getHex()), cuff = lin(TEAM_LOOK[team].gear), strap = lin(0x2c2b27);
+	seg(R, P(0.012, -0.036, 0.034), P(0.014, -0.094, 0.05), 0.02, glove);
+	for (const y of [-0.052, -0.072, -0.092]) finger(R, gripArc(y, [25, -40, -105, -165]), 0.0092, glove, tip);
+	finger(R, [P(0.024, -0.03, 0.012), P(0.019, -0.033, -0.006), P(0.009, -0.036, -0.016), P(0.002, -0.04, -0.017)], 0.0088, glove, tip);
+	finger(R, [P(0.004, -0.026, 0.05), P(-0.014, -0.026, 0.032), P(-0.022, -0.026, 0.012), P(-0.022, -0.028, -0.004)], 0.0098, glove, tip);
+	seg(R, P(0.016, -0.05, 0.05), P(0.026, -0.072, 0.095), 0.025, cuff);
+	limb(R, _a.set(0.026, -0.07, 0.085), _b.set(0.1, -0.2, 0.42), 0.034, 0.04, sleeve, 0);
+	if (!knife && w.left) {
+		const z = w.left[2], hg = w.hg, [cy, rx, ry] = hg;
+		seg(L, P(-rx * 0.75 - 0.01, cy - ry * 0.75 - 0.01, z + 0.045), P(-rx * 0.5 - 0.004, cy - ry - 0.006, z - 0.035), 0.02, glove);
+		for (let k = 0; k < 4; k++) finger(L, hgArc(z - 0.036 + k * 0.021, hg, [-125, -60, 0, 55]), 0.0092, glove, tip);
+		finger(L, [P(-rx - 0.016, cy - ry * 0.5, z + 0.03), P(-rx - 0.012, cy, z + 0.005), P(-rx - 0.008, cy + ry * 0.45, z - 0.02), P(-rx - 0.004, cy + ry * 0.7, z - 0.04)], 0.0098, glove, tip);
+		const wx = -rx - 0.012, wy = cy - ry - 0.004, wz = z + 0.055;
+		seg(L, P(wx + 0.004, wy + 0.004, wz - 0.01), P(wx - 0.018, wy - 0.026, wz + 0.03), 0.026, cuff);
+		limb(L, _a.set(wx - 0.012, wy - 0.018, wz + 0.02), _b.set(wx - 0.09, wy - 0.25, wz + 0.2), 0.035, 0.043, sleeve, 0);
+		seg(L, P(-0.026, cy - 0.01, z + 0.09), P(-0.05, -0.06, z + 0.26), 0.005, strap); seg(L, P(-0.05, -0.06, z + 0.26), P(-0.13, -0.2, z + 0.5), 0.005, strap);
+	} else if (!knife) {
+		const [x, y, z] = [-0.03, -0.075, 0.015];
+		seg(L, P(x - 0.03, y - 0.02, z + 0.01), P(x - 0.026, y - 0.06, z + 0.02), 0.02, glove);
+		for (let k = 0; k < 4; k++) finger(L, [P(x - 0.034, y - 0.008 - k * 0.019, z + 0.03), P(x - 0.02, y - 0.01 - k * 0.019, z - 0.005), P(x + 0.012, y - 0.012 - k * 0.019, z - 0.012), P(x + 0.04, y - 0.014 - k * 0.019, z - 0.002)], 0.0092, glove, tip);
+		limb(L, _a.set(x - 0.035, y - 0.03, z + 0.03), _b.set(x - 0.2, y - 0.24, z + 0.36), 0.034, 0.044, sleeve, 0);
 	}
 	const mk = (B) => { if (!B.p.length) return null; const m = new Mesh(B.geo(), weaponMaterial); m.renderOrder = 1; return m; };
 	return { right: mk(R), left: mk(L) };
@@ -61,7 +82,7 @@ export function createViewmodel(vmScene, sunDir) {
 		if (curKey === k) return;
 		if (cur) gun.remove(cur.group);
 		if (!cache[k]) {
-			const w = buildWeapon(id), arms = buildArms(team, id === 'cutlass' ? null : w.left || [0, 0, 0], !w.left);
+			const w = buildWeapon(id), arms = buildArms(team, w, id === 'cutlass');
 			for (const m of [arms.right, arms.left]) if (m) w.group.add(m);
 			w.leftArm = arms.left; w.mag0 = w.mag ? w.mag.position.y : 0;
 			cache[k] = w;

diff --git a/game/js/art/weapons-art.js b/game/js/art/weapons-art.js
@@ -3,12 +3,12 @@
 // Vertex colour = finish, aE = 1 polymer / 2 metal for the shared material (pattern 12). The slide and the
 // magazine are separate meshes so the viewmodel can animate them.
 import { Shape, Path, ExtrudeGeometry, LatheGeometry, Vector2, Matrix4, Mesh, Group, Object3D, Color, MeshBasicMaterial, AdditiveBlending,
-	PlaneGeometry, CanvasTexture } from 'three';
+	PlaneGeometry, CircleGeometry, CanvasTexture, MeshStandardMaterial, DoubleSide } from 'three';
 import { Bld, boxInto } from './mesh.js';
 import { procMaterial } from './materials.js';
 
 const lin = (hex) => { const c = new Color(hex); return [c.r, c.g, c.b]; };
-const FIN = { M: lin(0x8a8e93), P: lin(0x45464a), S: lin(0xc4c7ca), W: lin(0x8a6040), B: lin(0xc9a050), R: lin(0x5a5d61) };
+const FIN = { K: lin(0x1b1c1f), M: lin(0x8a8e93), P: lin(0x45464a), S: lin(0xc4c7ca), W: lin(0x8a6040), B: lin(0xc9a050), R: lin(0x5a5d61) };
 export const weaponMaterial = procMaterial({ c: 0xffffff, pat: 12, bump: 0.004, env: 1.2, metal: 1 });
 const _m = new Matrix4();
 
@@ -30,19 +30,19 @@ const slots = (u0, u1, v0, v1, n) => { const out = [], w = (u1 - u0) / n; for (l
 
 function optic(B, kind, z, y) {
 	if (kind === 'scope') {
-		lat(B, FIN.M, 0, y + 0.045, z + 0.14, [0, 0, 0.024, 0, 0.024, 0.07, 0.015, 0.1, 0.015, 0.2, 0.021, 0.24, 0.021, 0.3, 0.019, 0.31, 0, 0.31], 2, 24);
-		for (const zz of [z + 0.07, z - 0.08]) box(B, FIN.M, -0.012, y, zz, 0.012, y + 0.03, zz - 0.02);
-		lat(B, FIN.M, 0.02, y + 0.045, z - 0.01, [0, 0, 0.009, 0, 0.009, 0.02, 0, 0.02], 2, 12);
+		lat(B, FIN.K, 0, y + 0.045, z + 0.14, [0, 0, 0.028, 0, 0.028, 0.07, 0.019, 0.1, 0.019, 0.2, 0.025, 0.24, 0.025, 0.3, 0.023, 0.31, 0, 0.31], 1, 24);
+		for (const zz of [z + 0.07, z - 0.08]) box(B, FIN.K, -0.012, y, zz, 0.012, y + 0.03, zz - 0.02, 1);
+		lat(B, FIN.K, 0.024, y + 0.045, z - 0.01, [0, 0, 0.009, 0, 0.009, 0.02, 0, 0.02], 1, 12);
 		return y + 0.045;
 	}
 	if (kind === 'holo') {
-		box(B, FIN.P, -0.017, y, z, 0.017, y + 0.012, z - 0.09, 1);
-		box(B, FIN.M, -0.019, y + 0.012, z, -0.015, y + 0.055, z - 0.09); box(B, FIN.M, 0.015, y + 0.012, z, 0.019, y + 0.055, z - 0.09);
-		box(B, FIN.M, -0.019, y + 0.051, z, 0.019, y + 0.056, z - 0.09);
+		box(B, FIN.K, -0.017, y, z, 0.017, y + 0.012, z - 0.09, 1);
+		box(B, FIN.K, -0.019, y + 0.012, z, -0.015, y + 0.055, z - 0.09, 1); box(B, FIN.K, 0.015, y + 0.012, z, 0.019, y + 0.055, z - 0.09, 1);
+		box(B, FIN.K, -0.019, y + 0.051, z, 0.019, y + 0.056, z - 0.09, 1);
 		return y + 0.033;
 	}
-	box(B, FIN.M, -0.013, y, z, 0.013, y + 0.01, z - 0.05);
-	lat(B, FIN.M, 0, y + 0.03, z, [0.02, 0, 0.02, 0.05, 0.017, 0.052], 2, 20);
+	box(B, FIN.K, -0.013, y, z, 0.013, y + 0.01, z - 0.05, 1);
+	lat(B, FIN.K, 0, y + 0.03, z, [0.023, 0, 0.023, 0.05, 0.02, 0.052], 1, 20);
 	return y + 0.03;
 }
 
@@ -97,7 +97,7 @@ function longGun(o) {
 	const sight = o.optic ? optic(B, o.optic, o.opticZ ?? -0.06, 0.075) : 0.075;
 	if (!o.optic) { box(B, FIN.M, -0.008, 0.07, z0 - 0.01, 0.008, 0.086, z0 - 0.025); box(B, FIN.M, -0.002, 0.07, -h1 + 0.03, 0.002, 0.09, -h1 + 0.035); }
 	if (o.bolt) { box(K, FIN.S, 0.017, 0.035, -0.02, 0.05, 0.042, -0.028); lat(K, FIN.S, 0.055, 0.038, -0.018, [0.008, 0, 0.008, 0.012, 0, 0.012], 2, 10); }
-	return { B, K, A, muz: [0, by, bz - o.barrel - 0.05], left: [0, -0.005, -(h0 + 0.09)], sight, optic: o.optic };
+	return { B, K, A, muz: [0, by, bz - o.barrel - 0.05], left: [0, -0.005, -(h0 + 0.09)], hg: o.pump ? [-0.01, 0.026, 0.026] : [(hy0 + 0.064) / 2, 0.023, (0.066 - hy0) / 2], sight, optic: o.optic, oz: o.opticZ ?? -0.06 };
 }
 
 function knife() {
@@ -124,8 +124,9 @@ const reticle = (() => {
 	const x = c.getContext('2d'), g = x.createRadialGradient(32, 32, 0, 32, 32, 8);
 	g.addColorStop(0, 'rgba(255,90,60,1)'); g.addColorStop(0.4, 'rgba(255,60,40,0.9)'); g.addColorStop(1, 'rgba(255,40,20,0)');
 	x.fillStyle = g; x.fillRect(0, 0, 64, 64);
-	return new MeshBasicMaterial({ map: new CanvasTexture(c), transparent: true, blending: AdditiveBlending, depthWrite: false, color: 0xffffff });
+	return new MeshBasicMaterial({ map: new CanvasTexture(c), transparent: true, blending: AdditiveBlending, depthWrite: false, color: new Color(4, 1.4, 1.2) });
 })();
+const lens = new MeshStandardMaterial({ color: 0x241f3c, metalness: 0.5, roughness: 0.05, transparent: true, opacity: 0.6, envMapIntensity: 2.5, side: DoubleSide });
 
 // lod = true: one merged mesh (third person). Otherwise slide and magazine stay separate and optics get a reticle.
 export function buildWeapon(id, lod = false) {
@@ -134,9 +135,11 @@ export function buildWeapon(id, lod = false) {
 	const mk = (P) => { if (!P || !P.p.length) return null; const m = new Mesh(P.geo(), weaponMaterial); m.castShadow = lod; g.add(m); return m; };
 	mk(s.B);
 	const slide = mk(s.K), mag = mk(s.A);
-	if (!lod && s.optic && s.optic !== 'scope') {
-		const r = new Mesh(new PlaneGeometry(0.03, 0.03), reticle); r.position.set(0, s.sight, (s.optic === 'holo' ? -0.12 : -0.06) - 0.04); r.renderOrder = 2; g.add(r);
+	if (!lod && s.optic) { // tinted glass at both ends of the optic and an HDR red dot that reads on sky and walls
+		const sc = s.optic === 'scope', z0 = s.oz + (sc ? 0.139 : -0.001), z1 = z0 - (sc ? 0.308 : s.optic === 'holo' ? 0.088 : 0.048), R = sc ? 0.024 : 0.02;
+		for (const z of [z0, z1]) { const l = new Mesh(new CircleGeometry(R, 20), lens); l.position.set(0, s.sight, z); g.add(l); }
+		if (s.optic !== 'scope') { const r = new Mesh(new PlaneGeometry(0.03, 0.03), reticle); r.position.set(0, s.sight, (z0 + z1) / 2); r.renderOrder = 2; g.add(r); }
 	}
 	const muzzle = new Object3D(); muzzle.position.fromArray(s.muz); g.add(muzzle);
-	return { group: g, muzzle, slide, mag, left: s.left, sight: s.sight };
+	return { group: g, muzzle, slide, mag, left: s.left, hg: s.hg, sight: s.sight };
 }

diff --git a/game/js/art/geo.js b/game/js/art/geo.js
@@ -2,11 +2,16 @@
 // vertices carry aE = 1 (edge wear); facades get plinths, cornices, pilasters and windows; props come from level data;
 // everything is merged per material and gets per-vertex ambient occlusion baked against the map boxes.
 import { Mesh, MeshStandardMaterial, CylinderGeometry, LatheGeometry, SphereGeometry, PlaneGeometry,
-	BoxGeometry, CanvasTexture, Vector2, Vector3, Matrix4, Quaternion, PointLight, SRGBColorSpace, DoubleSide } from 'three';
+	BoxGeometry, CanvasTexture, Vector2, Vector3, Matrix4, Quaternion, PointLight, SRGBColorSpace, DoubleSide,
+	ShaderMaterial, AdditiveBlending, BufferGeometry, Float32BufferAttribute } from 'three';
+import { sunDirection } from './lighting.js';
 import { worldMaterials, groundMaterials, procMaterial } from './materials.js';
 import { rayAABB, mulberry32 } from '../math.js';
 import { Bld, boxInto, ticks } from './mesh.js';
 
+const shaftMat = new ShaderMaterial({ transparent: true, depthWrite: false, blending: AdditiveBlending, side: DoubleSide,
+	vertexShader: 'varying float v;void main(){v=uv.y;gl_Position=projectionMatrix*modelViewMatrix*vec4(position,1.);}',
+	fragmentShader: 'varying float v;void main(){gl_FragColor=vec4(vec3(1.,.72,.42)*.4*pow(1.-v,1.4),1.);}' });
 // Ambient occlusion per vertex: 10 hemisphere rays of 1.6 m against nearby map boxes (spatial hash of 4 m cells).
 const AO_DIRS = Array.from({ length: 10 }, (_, k) => { const a = k * 2.399, e = 0.25 + 0.6 * ((k * 0.618) % 1); return [Math.cos(a) * Math.cos(e), Math.sin(e), Math.sin(a) * Math.cos(e)]; });
 function bakeAO(B, hash) {
@@ -147,7 +152,17 @@ export function buildWorld(scene, boxes, map) {
 		wlamp(x, y, z) {
 			tube(get(W[2]), A.set(x, y, z), Bv.set(x, y + 0.8, z), 0.015, 6);
 			get(W[2]).add(new SphereGeometry(0.28, 16, 6, 0, 6.3, 0, 1.3), at(x, y - 0.05, z)); get(bulb).add(new SphereGeometry(0.1, 10, 8), at(x, y - 0.12, z));
-			const l = new PointLight(0xffb062, 26, 16, 1.8); l.position.set(x, y - 0.4, z); scene.add(l);
+			const l = new PointLight(0xffb062, 40, 18, 1.8); l.position.set(x, y - 0.4, z); scene.add(l);
+		},
+		// Dusty sun shaft through a window opening (x, y0..y1, z0..z1): the four long faces of the prism swept along the
+		// sunlight down to the floor, additive and fading with distance.
+		shaft(x, y0, y1, z0, z1) {
+			const d = sunDirection(), p = [], uv = [], c = [[y0, z0], [y1, z0], [y1, z1], [y0, z1]];
+			for (let k = 0; k < 4; k++) for (const [y, z, v] of [[...c[k], 0], [...c[(k + 1) % 4], 0], [...c[(k + 1) % 4], 1], [...c[k], 0], [...c[(k + 1) % 4], 1], [...c[k], 1]]) {
+				const t = v * y / d.y; p.push(x - d.x * t, y - d.y * t, z - d.z * t); uv.push(0, v);
+			}
+			const g = new BufferGeometry(); g.setAttribute('position', new Float32BufferAttribute(p, 3)); g.setAttribute('uv', new Float32BufferAttribute(uv, 2));
+			scene.add(new Mesh(g, shaftMat));
 		},
 		pipe(...pts) {
 			for (let k = 0; k + 5 < pts.length; k += 3) {

diff --git a/game/js/art/materials.js b/game/js/art/materials.js
@@ -46,8 +46,7 @@ void surface(out vec3 c,out float r,out float h,out float mt){
 	c*=(.88+.24*h3(vec3(floor(b),4.)))*(1.-.35*m);h=h*.4-m*.7;}
 	else if (P==11){float k=smoothstep(.66,.74,fbm(vW*.7)+.2*f);c=mix(c*(.92+.1*n),uC2*(.94+.06*f),k);
 	r=mix(.05,.75,k);h=k*(.4+f*.4);}
-	else if (P==12){if (vE>1.5){r=.38+.2*n;mt=1.;}else if (vE>.5){r=.62+.2*f;mt=0.;h=f*.4;}
-	else{float w=sin(q.x*380.)*sin(q.y*380.);h=w*.12+n*.3;r=.88;mt=0.;}}
+	else if (P==12){if (vE>2.5){r=.45;mt=0.;}else if (vE>1.5){r=.38+.2*n;mt=1.;}else if (vE>.5){r=.62+.2*f;mt=0.;h=f*.4;}else{float w=sin(q.x*380.)*sin(q.y*380.);h=w*.12+n*.3;r=.88;mt=0.;}}
 	if (P<12){
 	float side=1.-an.y,y=vW.y;
 	float d=(1.-smoothstep(0.,1.5,y))*smoothstep(.3,.7,fbm(vW*.8+5.))*uL.y*side;
@@ -86,9 +85,15 @@ export function procMaterial(o) {
 			.replace('#include <map_fragment>', '#include <map_fragment>\nvec3 pc; float pr, ph, pm; surface(pc, pr, ph, pm); diffuseColor.rgb = pc;')
 			.replace('#include <roughnessmap_fragment>', 'float roughnessFactor = pr;')
 			.replace('#include <metalnessmap_fragment>', 'float metalnessFactor = metalness * pm;')
-			.replace('#include <normal_fragment_maps>', `#include <normal_fragment_maps>\n${BUMP}`);
+			.replace('#include <normal_fragment_maps>', `#include <normal_fragment_maps>\n${BUMP}`)
+			// Characters (pattern 12, uL = bump, rim, accent glow, hit flash): fresnel rim + emissive team accents so
+			// soldiers never fall to a black silhouette in shade, and a short red-white flash when hit.
+			.replace('#include <emissivemap_fragment>', `#include <emissivemap_fragment>
+				if (int(uPat + .5) == 12) totalEmissiveRadiance += pc * step(2.5, vE) * uL.z + vec3(1., .4, .3) * uL.w
+					+ vec3(1., .92, .82) * pow(1. - abs(dot(normal, normalize(vViewPosition))), 3.) * uL.y * (.35 + .65 * pc);`);
 	};
 	m.customProgramCacheKey = () => 'saltline-proc';
+	m.userData.u = u;
 	return m;
 }
 

diff --git a/game/js/hud.js b/game/js/hud.js
@@ -11,7 +11,7 @@ const PX = 2.6;
 export function createHud(map) {
 	const E = {};
 	for (const id of ['hp', 'hpbar', 'ar', 'arm', 'helm', 'money', 'ammo', 'wname', 'nS', 'nV', 'nG', 'kit', 'timer', 'rnd', 'scS', 'scB', 'pipS', 'pipB',
-		'feed', 'cross', 'hit', 'hurt', 'banner', 'bT', 'bS', 'prompt', 'prog', 'progL', 'progB', 'spec', 'buy', 'board', 'scope', 'flash', 'loc', 'radar']) E[id] = $(id);
+		'feed', 'cross', 'hit', 'hurt', 'banner', 'bT', 'bS', 'prompt', 'prog', 'progL', 'progB', 'spec', 'buy', 'board', 'scope', 'flash', 'loc', 'radar', 'vig']) E[id] = $(id);
 	const last = {};
 	const text = (k, v) => { if (last[k] !== v) { last[k] = v; E[k].textContent = v; } };
 	const html = (k, v) => { if (last[k] !== v) { last[k] = v; E[k].innerHTML = v; } };
@@ -129,6 +129,7 @@ export function createHud(map) {
 			cls('hit', 'on', hitOn); cls('hit', 'hs', v.lastHit.head);
 			const hurt = Math.max(0, 1 - (state.time - v.hurtT) / 0.8);
 			style('hurt', 'opacity', (hurt * 0.9).toFixed(2)); style('hurt', 'transform', `rotate(${((v.yaw - v.hurtYaw) * 57.3 + 20).toFixed(0)}deg)`);
+			style('vig', 'opacity', Math.min(1, hurt * 0.8 + (v.alive && v.hp <= 30 ? 0.55 : 0)).toFixed(2)); cls('vig', 'low', v.alive && v.hp <= 30);
 			style('flash', 'opacity', Math.min(1, v.flashT / 1.6).toFixed(2));
 		},
 	};

diff --git a/game/js/art/lighting.js b/game/js/art/lighting.js
@@ -17,11 +17,11 @@ export function skyMaterial(sunDir) {
 	vec3 d=normalize(vD);float y=d.y,s=max(dot(d,sun),0.);
 	vec3 c=mix(hor,zen,pow(clamp(y,0.,1.),.45));
 	c=mix(c,hor*vec3(1.15,.92,.82),(1.-smoothstep(0.,.35,y))*pow(s,2.)*.8);
-	c+=sc*(pow(s,6.)*.28+pow(s,60.)*.7+smoothstep(.9994,.9997,s)*30.);
+	c+=sc*(pow(s,5.)*.42+pow(s,60.)*.7+smoothstep(.9994,.9997,s)*30.);
 	vec2 q=d.xz/(y+.25)*.9+vec2(3.,1.);float cl=0.,a=.5;
 	for (int k=0;k<5;k++){cl+=n(q)*a;q=q*2.03+1.3;a*=.5;}
-	cl=smoothstep(.5,.78,cl)*smoothstep(.03,.3,y);
-	c=mix(c,mix(vec3(.85,.62,.58),sc*1.4,pow(s,3.)),cl*.55);
+	cl=smoothstep(.44,.7,cl)*smoothstep(.03,.3,y);
+	c=mix(c,mix(vec3(.85,.62,.58),sc*1.4,pow(s,3.)),cl*.72);
 	c=mix(c,hor*.42,smoothstep(.0,-.08,y));
 	gl_FragColor=vec4(c,1.);
 	}`,

diff --git a/game/js/config.js b/game/js/config.js
@@ -82,8 +82,8 @@ export const HIT = { head: 4,headHelm: 2.4,chest: 1,stomach: 1,arm: 0.9,leg: 0.7
 export const ARMOR_RATIO = 0.5;
 
 export const TEAM_LOOK = {
-	strand: { cloth: 0x8f8263, gear: 0x6a6046, accent: 0xf0a03c, helmet: 0x9a8b66 },
-	bastion: { cloth: 0x4d5866, gear: 0x2e353e, accent: 0x2f8f86, helmet: 0x3a424c },
+	strand: { cloth: 0xc2b28c, gear: 0x8f7f5a, accent: 0xf0a03c, helmet: 0xb7a67c },
+	bastion: { cloth: 0x8796a6, gear: 0x55616e, accent: 0x34c2b2, helmet: 0x6d7a88 },
 };
 
 
